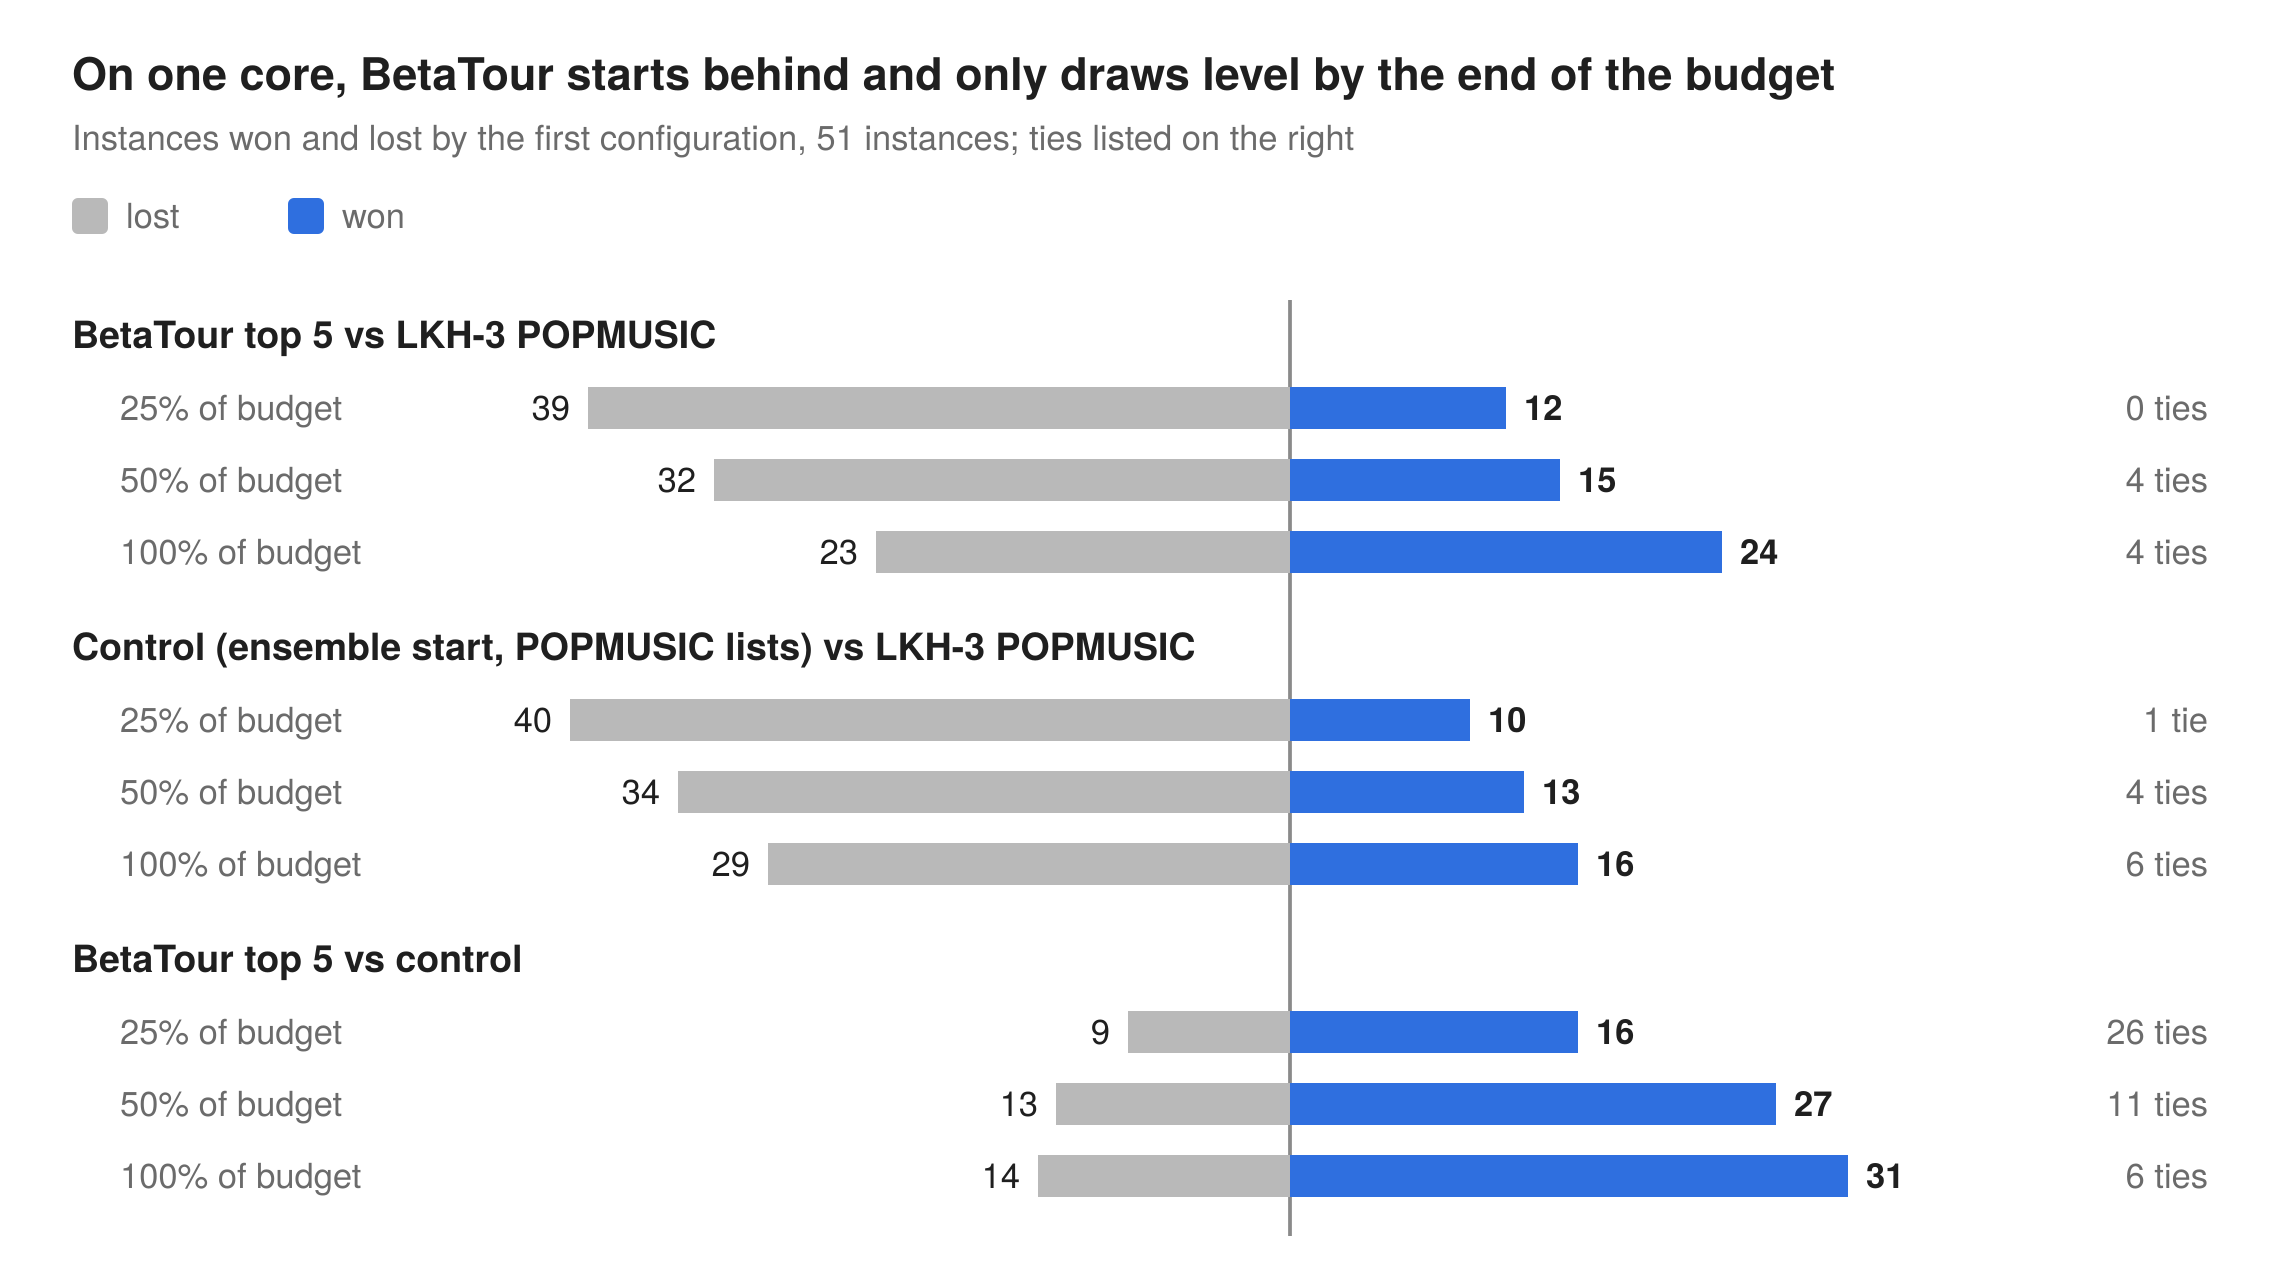
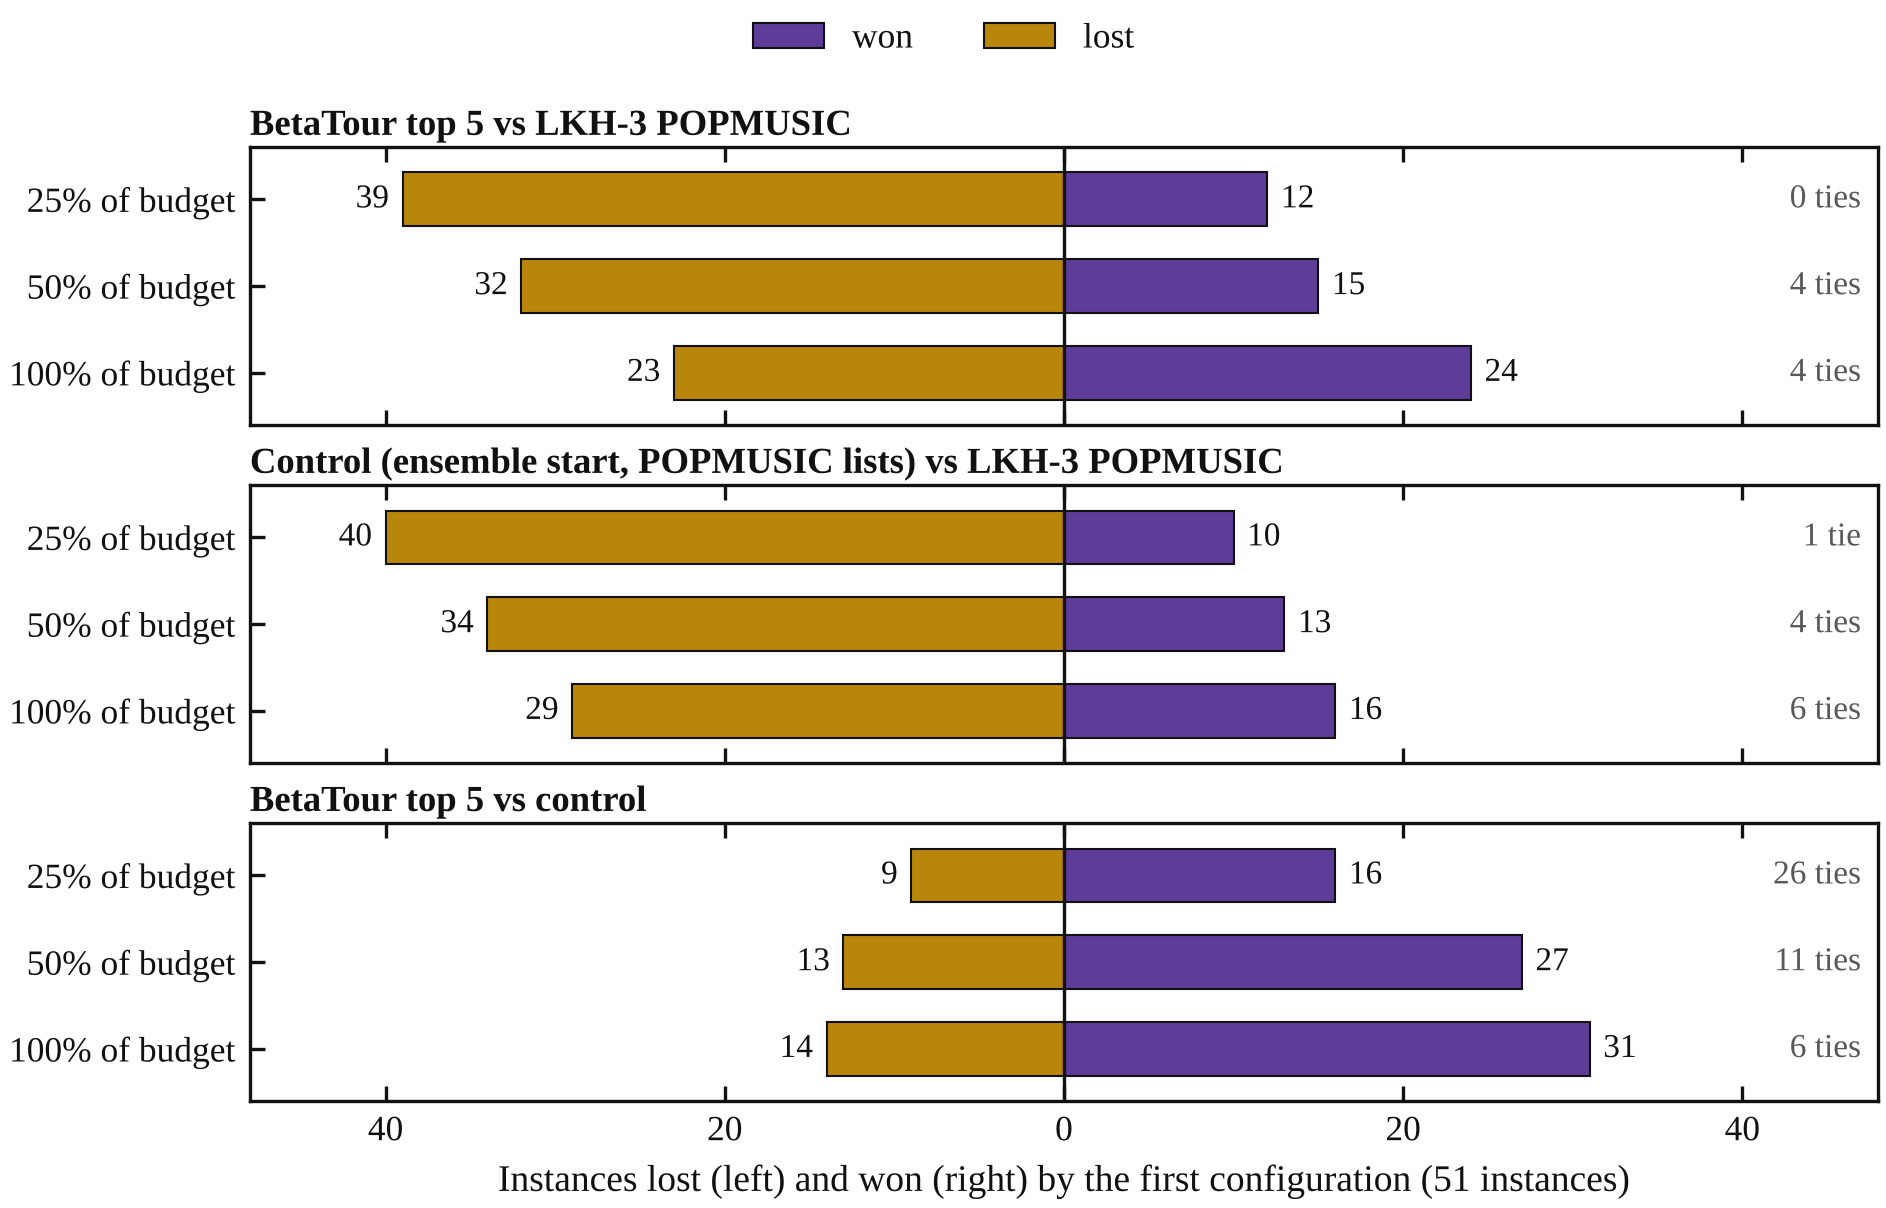
Redraw the figures in the journal style
- figures/figure1-5: serif text, inward ticks, purple and dark mustard, no titles inside the figures; Figure 1 with coloured header bands
- figures/make_figures.py: draws the five figures (PNG and PDF) from the numbers of the paper, with their sources
- README.md: the layout entry of figures/ names the script

diff --git a/figures/make_figures.py b/figures/make_figures.py
@@ -1,0 +1,249 @@
+"""The five figures of the BetaTour manuscript in the journal style: Times-like serif text, inward ticks, purple and
+dark mustard (a pair that passes the colour-vision checks), no titles inside the figures (the captions carry them).
+
+    python figures/make_figures.py [OUT_DIR]
+
+writes figure1_architecture ... figure5_self_correction as PNG (300 dpi) and PDF. The numbers are those of the paper:
+
+  Figure 2  results/v3/RAPOR_v3.md, coverage table (per-set means of results/v3/results/coverage_v3.csv)
+  Figure 3  results/v3/results/lkh_eval_v3.csv (W/T/L over the 51 instances at 25, 50 and 100% of the budget)
+  Figure 4  analysis/v4_size_split_and_spread.py on results/v4 (mean single-run gap, population SD of the six final
+            tours, per-run W/T/L)
+  Figure 5  analysis/v12_self_correction.py on results/v12 (Table 10 and the 75% row of the same script)
+
+Figure 1 is the architecture diagram of Section 3.
+"""
+
+import sys
+from pathlib import Path
+
+import matplotlib
+
+matplotlib.use("Agg")
+import matplotlib.pyplot as plt  # noqa: E402
+import numpy as np  # noqa: E402
+from matplotlib.lines import Line2D  # noqa: E402
+from matplotlib.patches import FancyArrowPatch, Patch, Rectangle  # noqa: E402
+
+PURPLE, MUSTARD = "#5E3C99", "#B8860B"
+INK, MID, LIGHT = "#111111", "#595959", "#BFBFBF"
+OUT = Path(sys.argv[1]) if len(sys.argv) > 1 else Path(__file__).resolve().parent
+
+plt.rcParams.update({
+    "font.family": "serif",
+    "font.serif": ["Liberation Serif", "TeX Gyre Termes", "Times New Roman", "DejaVu Serif"],
+    "mathtext.fontset": "stix",
+    "font.size": 9, "axes.labelsize": 9, "axes.titlesize": 9, "xtick.labelsize": 8.5, "ytick.labelsize": 8.5,
+    "legend.fontsize": 8.5, "legend.frameon": False,
+    "axes.linewidth": 0.8, "axes.edgecolor": INK, "axes.labelcolor": INK, "text.color": INK,
+    "xtick.color": INK, "ytick.color": INK, "xtick.direction": "in", "ytick.direction": "in",
+    "xtick.top": True, "ytick.right": True, "xtick.major.size": 3.5, "ytick.major.size": 3.5,
+    "xtick.minor.size": 2.0, "ytick.minor.size": 2.0, "xtick.major.width": 0.8, "ytick.major.width": 0.8,
+    "savefig.dpi": 300, "pdf.fonttype": 42,
+})
+
+
+def save(fig, name):
+    OUT.mkdir(parents=True, exist_ok=True)
+    for ext in ("png", "pdf"):
+        fig.savefig(OUT / f"{name}.{ext}", bbox_inches="tight", pad_inches=0.03, facecolor="white")
+    plt.close(fig)
+
+
+# ------------------------------------------------------------------------------------------------------- Figure 1
+def box(ax, x, y, w, h, title, lines, band, columns=1, band_h=0.24):
+    """Box with a coloured header band: title in the band, body lines below (one or two columns)."""
+    ax.add_patch(Rectangle((x, y), w, h, facecolor="white", edgecolor="none", zorder=1))
+    ax.add_patch(Rectangle((x, y + h - band_h), w, band_h, facecolor=band, edgecolor="none", zorder=2))
+    ax.add_patch(Rectangle((x, y), w, h, facecolor="none", edgecolor=INK, linewidth=0.8, zorder=3))
+    ax.text(x + 0.09, y + h - band_h / 2, title, ha="left", va="center", fontsize=8.6, fontweight="bold",
+            color="white" if band == PURPLE else INK, zorder=4)
+    per_col = int(np.ceil(len(lines) / columns))
+    for k, line in enumerate(lines):
+        col, row = divmod(k, per_col)
+        ax.text(x + 0.09 + col * w / columns, y + h - band_h - 0.13 - row * 0.175, line, ha="left", va="center",
+                fontsize=8, color=INK, zorder=4)
+
+
+def arrow(ax, x0, y0, x1, y1, label=None):
+    ax.add_patch(FancyArrowPatch((x0, y0), (x1, y1), arrowstyle="-|>", mutation_scale=8, linewidth=0.8,
+                                 color=MID, shrinkA=0, shrinkB=0, zorder=0))
+    if label:
+        ax.text(x0 + 0.06, (y0 + y1) / 2, label, ha="left", va="center", fontsize=7.6, style="italic", color=MID)
+
+
+def figure1():
+    heights = [0.62, 0.45, 0.82, 0.82, 0.45, 0.62]
+    gaps = [0.30, 0.30, 0.36, 0.30, 0.30]
+    W, H = 5.4, 0.04 + sum(heights) + sum(gaps) + 0.04
+    fig = plt.figure(figsize=(W, H))
+    ax = fig.add_axes([0, 0, 1, 1])
+    ax.set_xlim(0, W)
+    ax.set_ylim(0, H)
+    ax.axis("off")
+    L, R, gap = 0.04, W - 0.04, 0.12
+    # rows from the top: (y of the bottom edge, height)
+    ya, ha = H - 0.04 - 0.62, 0.62
+    yb, hb = ya - 0.30 - 0.45, 0.45
+    yc, hc = yb - 0.30 - 0.82, 0.82
+    yd, hd = yc - 0.36 - 0.82, 0.82
+    ye, he = yd - 0.30 - 0.45, 0.45
+    yf, hf = ye - 0.30 - 0.62, 0.62
+    half = (R - L - gap) / 2
+    third = (R - L - 2 * gap) / 3
+    xa = [L, L + half + gap]
+    xb = [L, L + third + gap, L + 2 * (third + gap)]
+    box(ax, xa[0], ya, half, ha, "Instance",
+        ["n points, 16 nearest neighbours each", "+ up to 4 edges per node that the tours use"], MUSTARD)
+    box(ax, xa[1], ya, half, ha, "Tour ensemble, M tours",
+        ["one LKH-3 trial per tour, different seeds", "POPMUSIC candidates, no ascent"], MUSTARD)
+    box(ax, xb[0], yb, third, hb, "Nodes", ["n × 128"], PURPLE)
+    box(ax, xb[1], yb, third, hb, "Edges", ["n × 16 directed edges × 64"], PURPLE)
+    box(ax, xb[2], yb, third, hb, "Tour alignment", ["M tours × n nodes × 32"], PURPLE)
+    box(ax, L, yc, R - L, hc, "Alignment block × 2",
+        ["1  Column attention across the M tours", "2  Tour convolution: successor + predecessor",
+         "3  Row attention over neighbours, edge bias", "4  Transition, two-layer perceptron",
+         "5  Outer-product mean: tours → edges", "6  One pair block, as below"], PURPLE, columns=2)
+    box(ax, L, yd, R - L, hd, "Pair block × 6",
+        ["Node attention over neighbours, edge bias", "Edge update from its two end nodes",
+         "Mixing of the two directions of an edge", "Triangle updates, outgoing and incoming",
+         "k among the 12 nearest of both i and j", "Node and edge transitions"], PURPLE, columns=2)
+    box(ax, xb[0], ye, third, he, "Edge scores", ["symmetric for mutual edges"], PURPLE)
+    box(ax, xb[1], ye, third, he, "Penalties π", ["trained, not used in LKH runs"], PURPLE)
+    box(ax, xb[2], ye, third, he, "Confidence", ["are the top 2 both tour edges?"], PURPLE)
+    box(ax, L, yf, R - L, hf, "LKH-3 candidate lists",
+        ["rank the 16 neighbours by score and write α = 0, 100, 200, …",
+         "top 5, or top 3 then POPMUSIC; zero penalties, no ascent"], MUSTARD)
+    cb = [x + third / 2 for x in xb]
+    arrow(ax, cb[0], ya, cb[0], yb + hb)
+    arrow(ax, cb[1] - 0.25, ya, cb[1] - 0.25, yb + hb)
+    arrow(ax, cb[1] + 0.25, ya, cb[1] + 0.25, yb + hb, "edge-use fractions")
+    arrow(ax, cb[2], ya, cb[2], yb + hb)
+    for c in cb:
+        arrow(ax, c, yb, c, yc + hc)
+        arrow(ax, c, yd, c, ye + he)
+    arrow(ax, cb[1], yc, cb[1], yd + hd, "node and edge states")
+    arrow(ax, cb[0], ye, cb[0], yf + hf)
+    save(fig, "figure1_architecture")
+
+
+# ------------------------------------------------------------------------------------------------------- Figure 2
+def figure2():
+    sets = ["Validation", "Uniform 1k", "Clustered 1k", "Uniform 10k", "Clustered 10k", "TSPLIB"]
+    series = [("POPMUSIC", [3.95, 5.23, 5.62, 5.60, 6.18, 7.25], "white"),
+              ("α-nearness after ascent", [4.56, 2.27, 3.89, 2.79, 2.46, 4.69], LIGHT),
+              ("Counting, M = 8", [1.32, 1.59, 1.86, 2.08, 2.69, 3.93], MUSTARD),
+              ("BetaTour, M = 8", [0.48, 0.31, 0.61, 0.42, 0.52, 2.55], PURPLE)]
+    fig, ax = plt.subplots(figsize=(6.5, 3.0))
+    x = np.arange(len(sets))
+    width = 0.19
+    for k, (label, values, color) in enumerate(series):
+        pos = x + (k - 1.5) * width
+        ax.bar(pos, values, width * 0.92, color=color, edgecolor=INK, linewidth=0.6, label=label, zorder=2)
+        if k == 3:
+            for p, v in zip(pos, values):
+                ax.text(p - width * 0.46, v + 0.1, f"{v:.2f}", ha="left", va="bottom", fontsize=7.8)
+    ax.set_xticks(x, sets)
+    ax.set_xlim(-0.55, len(sets) - 0.45)
+    ax.set_ylim(0, 8)
+    ax.set_ylabel("Missing reference-tour edges\nper 1,000 nodes")
+    ax.legend(ncol=4, loc="lower center", bbox_to_anchor=(0.5, 1.0), handlelength=1.4, columnspacing=1.4)
+    save(fig, "figure2_candidate_coverage")
+
+
+# ------------------------------------------------------------------------------------------------------- Figure 3
+def figure3():
+    groups = [("BetaTour top 5 vs LKH-3 POPMUSIC", [(12, 0, 39), (15, 4, 32), (24, 4, 23)]),
+              ("Control (ensemble start, POPMUSIC lists) vs LKH-3 POPMUSIC", [(10, 1, 40), (13, 4, 34), (16, 6, 29)]),
+              ("BetaTour top 5 vs control", [(16, 26, 9), (27, 11, 13), (31, 6, 14)])]
+    points = ["25% of budget", "50% of budget", "100% of budget"]
+    fig, axes = plt.subplots(3, 1, figsize=(6.5, 3.9), sharex=True)
+    for ax, (title, rows) in zip(axes, groups):
+        y = np.arange(3)
+        won = [w for w, _, _ in rows]
+        lost = [l for _, _, l in rows]
+        ax.barh(y, won, 0.62, color=PURPLE, edgecolor=INK, linewidth=0.5, zorder=2)
+        ax.barh(y, [-v for v in lost], 0.62, color=MUSTARD, edgecolor=INK, linewidth=0.5, zorder=2)
+        for yy, (w, t, l) in zip(y, rows):
+            ax.text(w + 0.8, yy, str(w), ha="left", va="center", fontsize=8)
+            ax.text(-l - 0.8, yy, str(l), ha="right", va="center", fontsize=8)
+            ax.text(47, yy, f"{t} tie" + ("" if t == 1 else "s"), ha="right", va="center", fontsize=8, color=MID)
+        ax.axvline(0, color=INK, linewidth=0.8, zorder=3)
+        ax.set_yticks(y, points)
+        ax.tick_params(axis="y", right=False)
+        ax.set_ylim(2.6, -0.6)
+        ax.set_title(title, loc="left", fontsize=8.8, fontweight="bold", pad=3)
+    axes[-1].set_xlim(-48, 48)
+    ticks = [-40, -20, 0, 20, 40]
+    axes[-1].set_xticks(ticks, [str(abs(t)) for t in ticks])
+    axes[-1].set_xlabel("Instances lost (left) and won (right) by the first configuration (51 instances)")
+    handles = [Patch(facecolor=PURPLE, edgecolor=INK, linewidth=0.5, label="won"),
+               Patch(facecolor=MUSTARD, edgecolor=INK, linewidth=0.5, label="lost")]
+    fig.legend(handles=handles, ncol=2, loc="lower center", bbox_to_anchor=(0.5, 0.985))
+    fig.tight_layout(h_pad=0.6)
+    save(fig, "figure3_single_core_wtl")
+
+
+# ------------------------------------------------------------------------------------------------------- Figure 4
+def figure4():
+    classes = [("1,000 nodes", "27/59/10"), ("10,000 nodes", "59/0/37"), ("TSPLIB, 3,038–18,512", "33/5/28"),
+               ("20,000 nodes", "15/0/33")]
+    gap = {"pop": [0.0122, 0.0252, 0.0277, 0.0173], "tf": [0.0055, 0.0199, 0.0194, 0.0323]}
+    spread = {"pop": [0.0153, 0.0111, 0.0165, 0.0112], "tf": [0.0054, 0.0081, 0.0078, 0.0124]}
+    fig, axes = plt.subplots(1, 2, figsize=(6.5, 3.05), sharey=True, gridspec_kw={"wspace": 0.08})
+    y = np.arange(len(classes))
+    h = 0.36
+    for ax, data, label, xmax in ((axes[0], gap, "Mean gap of a single run (%)", 0.038),
+                                  (axes[1], spread, "Spread of the six final tours (%)", 0.0205)):
+        ax.barh(y - h / 2, data["pop"], h * 0.92, color=MUSTARD, edgecolor=INK, linewidth=0.5, zorder=2)
+        ax.barh(y + h / 2, data["tf"], h * 0.92, color=PURPLE, edgecolor=INK, linewidth=0.5, zorder=2)
+        for yy, a, b in zip(y, data["pop"], data["tf"]):
+            ax.text(a + xmax * 0.012, yy - h / 2, f"{a:.4f}", ha="left", va="center", fontsize=7.8)
+            ax.text(b + xmax * 0.012, yy + h / 2, f"{b:.4f}", ha="left", va="center", fontsize=7.8)
+        ax.set_xlim(0, xmax)
+        ax.set_xlabel(label)
+    axes[0].set_yticks(y, [f"{name}\nper run {wtl}" for name, wtl in classes])
+    axes[0].set_ylim(len(classes) - 0.45, -0.55)
+    handles = [Patch(facecolor=MUSTARD, edgecolor=INK, linewidth=0.5, label="LKH-3 POPMUSIC"),
+               Patch(facecolor=PURPLE, edgecolor=INK, linewidth=0.5, label="BetaTour")]
+    axes[0].legend(handles=handles, loc="lower left", bbox_to_anchor=(0.0, 1.0), ncol=2, handlelength=1.4,
+                   borderaxespad=0.2)
+    save(fig, "figure4_multi_core")
+
+
+# ------------------------------------------------------------------------------------------------------- Figure 5
+def figure5():
+    names = ["Uniform 1k", "Clustered 1k", "Uniform 10k", "Clustered 10k", "TSPLIB"]
+    share = [0, 25, 50, 75, 100]
+    dynamic = [[3.83, 1.19, 0.85, 0.65, 0.58], [6.21, 2.10, 1.33, 1.23, 1.10], [5.58, 1.91, 1.68, 1.58, 1.47],
+               [6.01, 2.21, 1.73, 1.51, 1.39], [5.81, 2.40, 2.16, 2.05, 2.00]]
+    beta = [0.62, 0.88, 0.46, 0.47, 1.65]
+    count = [2.25, 2.25, 2.33, 2.89, 3.32]
+    fig, axes = plt.subplots(1, 5, figsize=(6.5, 2.75), sharey=True, gridspec_kw={"wspace": 0.16})
+    for ax, name, d, b, c in zip(axes, names, dynamic, beta, count):
+        ax.plot([0, 100], [c, c], color=MUSTARD, linewidth=1.4, linestyle=(0, (4, 2)), zorder=2)
+        ax.plot([0, 100], [b, b], color=PURPLE, linewidth=1.6, zorder=2)
+        ax.plot(share, d, color=INK, linewidth=1.0, marker="o", markersize=3.2, zorder=3)
+        ax.set_title(name, fontsize=8.8, pad=3)
+        ax.set_xlim(-12, 112)
+        ax.set_xticks([0, 50, 100])
+        ax.set_xticks([25, 75], minor=True)
+    axes[0].set_ylim(0, 7)
+    axes[0].set_ylabel("Missing reference-tour edges\nper 1,000 nodes")
+    fig.supxlabel("Share of the time budget elapsed (%)", fontsize=9, y=0.0)
+    handles = [Line2D([], [], color=INK, linewidth=1.0, marker="o", markersize=3.2,
+                      label="LKH-3 candidate set (0% = initial POPMUSIC-5 lists)"),
+               Line2D([], [], color=PURPLE, linewidth=1.6, label="BetaTour top 5, M = 6"),
+               Line2D([], [], color=MUSTARD, linewidth=1.4, linestyle=(0, (4, 2)), label="Counting top 5, M = 6")]
+    fig.legend(handles=handles, ncol=3, loc="lower center", bbox_to_anchor=(0.5, 0.97), handlelength=2.2,
+               columnspacing=1.2)
+    save(fig, "figure5_self_correction")
+
+
+if __name__ == "__main__":
+    figure1()
+    figure2()
+    figure3()
+    figure4()
+    figure5()
+    print("written to", OUT)

diff --git a/README.md b/README.md
@@ -76,7 +76,7 @@ experiments/  code of the later runs: LKH-3 hooks and their builds (livehook/, v
 analysis/     scripts that recompute the statistics of the paper from results/
 results/      outputs of runs v1-v4 (reports, tables, traces) and the result ZIPs of runs v5-v12, v21-v23 and
               v25-v29 (see results/README.md)
-figures/      the five figures of the paper
+figures/      the five figures of the paper and the script that draws them (make_figures.py)
 checkpoints/  the trained BetaTour checkpoint used in runs v2 to v12 (see checkpoints/README.md)
 ```
 
